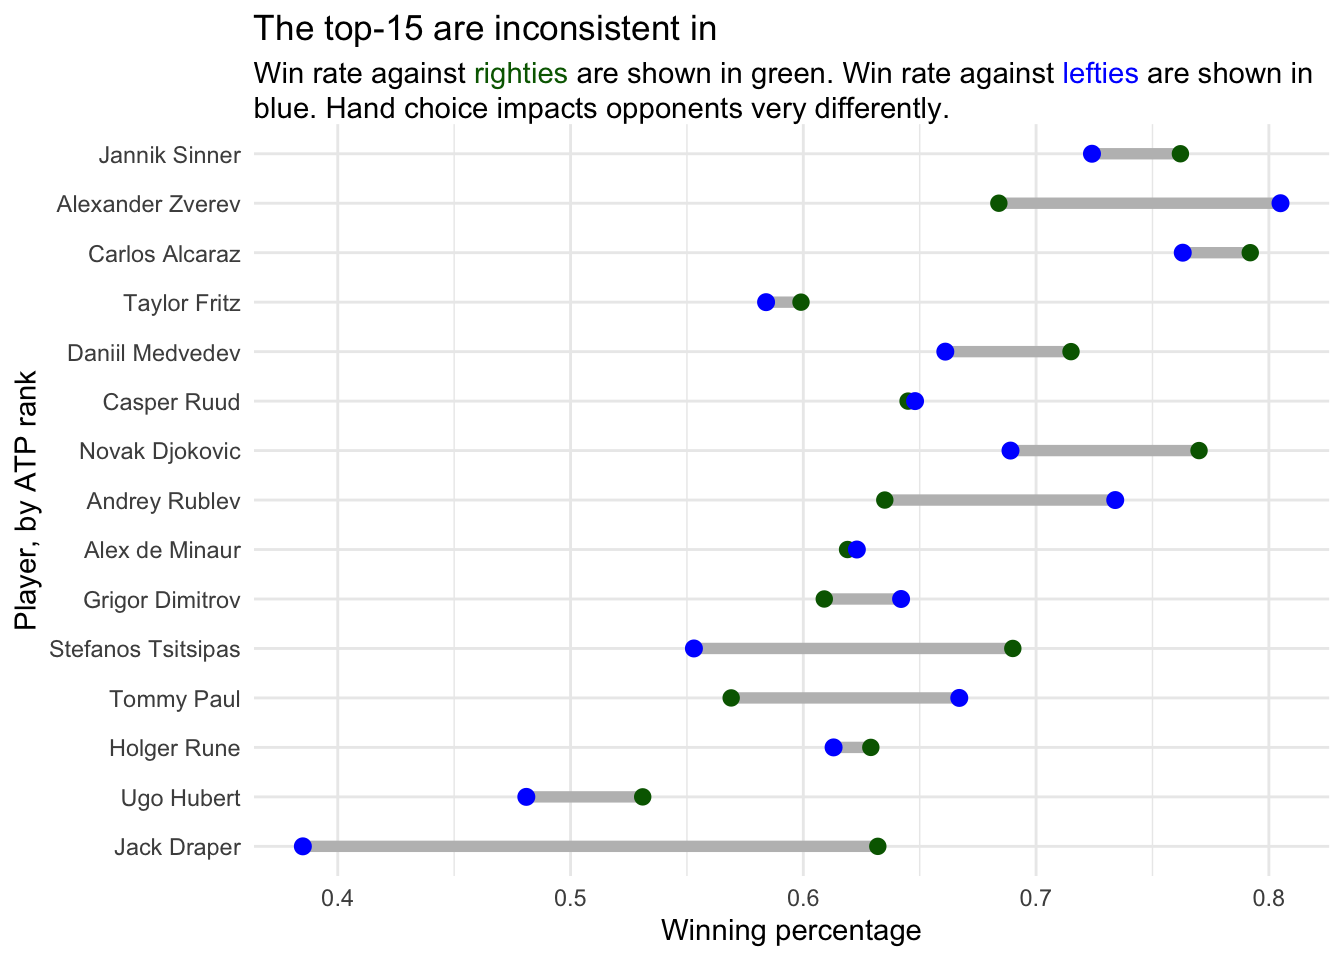
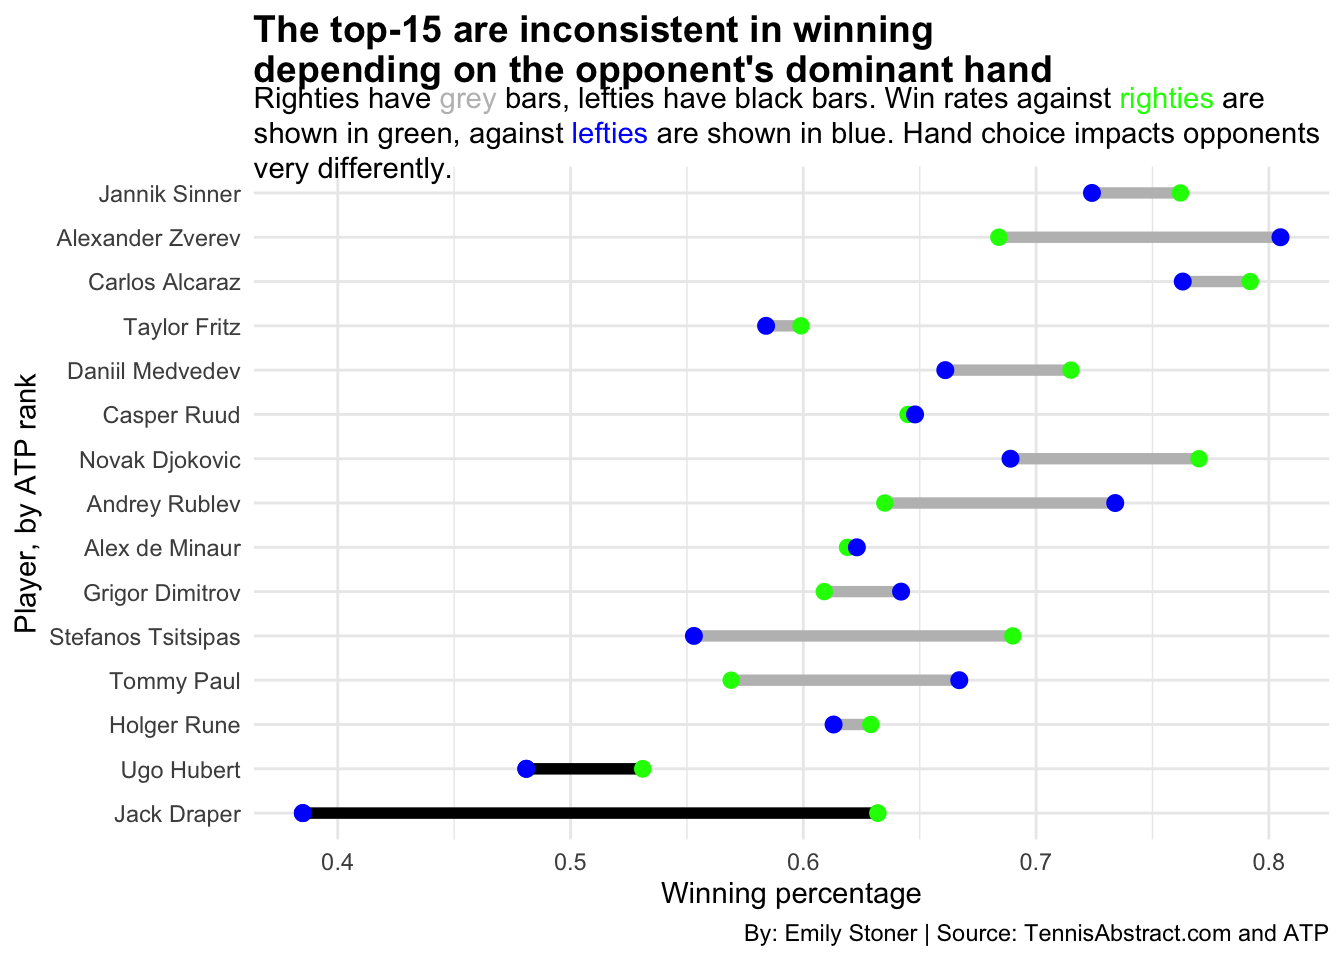
Pretty much done

Changed region(s): [[0.0, 0.0, 1.0, 0.6562], [0.0312, 0.5625, 0.9688, 1.0], [0.9062, 0.875, 0.9688, 0.9062]]

diff --git a/posts/External-Tennis-Factors-Impact-on-Success/index.html b/posts/External-Tennis-Factors-Impact-on-Success/index.html
@@ -245,10 +245,11 @@ pre > code.sourceCode > span > a:first-child::before { text-decoration: underlin
 <span id="cb3-26"><a href="#cb3-26" aria-hidden="true" tabindex="-1"></a>  <span class="fu">scale_size</span>(<span class="at">range =</span> <span class="fu">c</span>(<span class="dv">3</span>, <span class="dv">8</span>), <span class="at">name =</span> <span class="st">"Average Aces/Match"</span>) <span class="sc">+</span> <span class="fu">labs</span>(</span>
 <span id="cb3-27"><a href="#cb3-27" aria-hidden="true" tabindex="-1"></a>    <span class="at">x =</span> <span class="st">"Height (cm)"</span>, <span class="at">y =</span> <span class="st">"Serve Rating"</span>,</span>
 <span id="cb3-28"><a href="#cb3-28" aria-hidden="true" tabindex="-1"></a>    <span class="at">title =</span> <span class="st">"The ATP's best servers are tall and hit aces"</span>,</span>
-<span id="cb3-29"><a href="#cb3-29" aria-hidden="true" tabindex="-1"></a>    <span class="at">subtitle =</span> <span class="st">"The top-20 serve leaders by career show a connection between</span><span class="sc">\n</span><span class="st">height and service dominance. Active players shown in green."</span>, <span class="at">caption =</span> <span class="st">"By: Emily Stoner | Source: ATP"</span></span>
+<span id="cb3-29"><a href="#cb3-29" aria-hidden="true" tabindex="-1"></a>    <span class="at">subtitle =</span> <span class="st">"The top-20 serve leaders by career show a connection between</span><span class="sc">\n</span><span class="st">height and service dominance. Active players shown in &lt;span style = 'color:green;'&gt;green&lt;/span&gt;."</span>, <span class="at">caption =</span> <span class="st">"By: Emily Stoner | Source: ATP"</span></span>
 <span id="cb3-30"><a href="#cb3-30" aria-hidden="true" tabindex="-1"></a>  ) <span class="sc">+</span> <span class="fu">theme_minimal</span>() <span class="sc">+</span></span>
 <span id="cb3-31"><a href="#cb3-31" aria-hidden="true" tabindex="-1"></a>    <span class="fu">theme</span>(</span>
-<span id="cb3-32"><a href="#cb3-32" aria-hidden="true" tabindex="-1"></a>    <span class="at">plot.title =</span> <span class="fu">element_text</span>(<span class="at">size =</span> <span class="dv">14</span>, <span class="at">face =</span> <span class="st">"bold"</span>)) </span></code><button title="Copy to Clipboard" class="code-copy-button"><i class="bi"></i></button></pre></div>
+<span id="cb3-32"><a href="#cb3-32" aria-hidden="true" tabindex="-1"></a>      <span class="at">plot.subtitle =</span> <span class="fu">element_textbox_simple</span>(),</span>
+<span id="cb3-33"><a href="#cb3-33" aria-hidden="true" tabindex="-1"></a>    <span class="at">plot.title =</span> <span class="fu">element_text</span>(<span class="at">size =</span> <span class="dv">14</span>, <span class="at">face =</span> <span class="st">"bold"</span>)) </span></code><button title="Copy to Clipboard" class="code-copy-button"><i class="bi"></i></button></pre></div>
 </details>
 <div class="cell-output-display">
 <div>
@@ -320,17 +321,23 @@ pre > code.sourceCode > span > a:first-child::before { text-decoration: underlin
 <span id="cb7-4"><a href="#cb7-4" aria-hidden="true" tabindex="-1"></a>    <span class="fu">aes</span>(<span class="at">y=</span><span class="fu">reorder</span>(Player, <span class="sc">-</span>No), <span class="at">x=</span>vR, <span class="at">xend=</span>vL),</span>
 <span id="cb7-5"><a href="#cb7-5" aria-hidden="true" tabindex="-1"></a>    <span class="at">size =</span> <span class="dv">2</span>,</span>
 <span id="cb7-6"><a href="#cb7-6" aria-hidden="true" tabindex="-1"></a>    <span class="at">colour =</span> <span class="st">"grey"</span>,</span>
-<span id="cb7-7"><a href="#cb7-7" aria-hidden="true" tabindex="-1"></a>    <span class="at">colour_x =</span> <span class="st">"darkgreen"</span>,</span>
-<span id="cb7-8"><a href="#cb7-8" aria-hidden="true" tabindex="-1"></a>    <span class="at">colour_xend =</span> <span class="st">"blue"</span> ) <span class="sc">+</span></span>
-<span id="cb7-9"><a href="#cb7-9" aria-hidden="true" tabindex="-1"></a>  <span class="fu">labs</span>(</span>
-<span id="cb7-10"><a href="#cb7-10" aria-hidden="true" tabindex="-1"></a>    <span class="at">x=</span><span class="st">"Winning percentage"</span>,</span>
-<span id="cb7-11"><a href="#cb7-11" aria-hidden="true" tabindex="-1"></a>    <span class="at">y=</span><span class="st">"Player, by ATP rank"</span>,</span>
-<span id="cb7-12"><a href="#cb7-12" aria-hidden="true" tabindex="-1"></a>    <span class="at">title=</span><span class="st">"The top-15 are inconsistent in "</span>, </span>
-<span id="cb7-13"><a href="#cb7-13" aria-hidden="true" tabindex="-1"></a>    <span class="at">subtitle =</span> <span class="st">"Win rate against &lt;span style = 'color:darkgreen;'&gt;righties&lt;/span&gt; are shown in green. Win rate against &lt;span style = 'color:blue;'&gt;lefties&lt;/span&gt; are shown in blue. Hand choice impacts opponents very differently."</span></span>
-<span id="cb7-14"><a href="#cb7-14" aria-hidden="true" tabindex="-1"></a>  ) <span class="sc">+</span>  </span>
-<span id="cb7-15"><a href="#cb7-15" aria-hidden="true" tabindex="-1"></a>  <span class="fu">theme_minimal</span>() <span class="sc">+</span></span>
-<span id="cb7-16"><a href="#cb7-16" aria-hidden="true" tabindex="-1"></a>  <span class="fu">theme</span>(</span>
-<span id="cb7-17"><a href="#cb7-17" aria-hidden="true" tabindex="-1"></a>    <span class="at">plot.subtitle =</span> <span class="fu">element_textbox_simple</span>())</span></code><button title="Copy to Clipboard" class="code-copy-button"><i class="bi"></i></button></pre></div>
+<span id="cb7-7"><a href="#cb7-7" aria-hidden="true" tabindex="-1"></a>    <span class="at">colour_x =</span> <span class="st">"green"</span>,</span>
+<span id="cb7-8"><a href="#cb7-8" aria-hidden="true" tabindex="-1"></a>    <span class="at">colour_xend =</span> <span class="st">"blue"</span> ) <span class="sc">+</span> <span class="fu">geom_dumbbell</span>(</span>
+<span id="cb7-9"><a href="#cb7-9" aria-hidden="true" tabindex="-1"></a>    <span class="at">data=</span>Lefties, </span>
+<span id="cb7-10"><a href="#cb7-10" aria-hidden="true" tabindex="-1"></a>    <span class="fu">aes</span>(<span class="at">y=</span><span class="fu">reorder</span>(Player, <span class="sc">-</span>No), <span class="at">x=</span>vR, <span class="at">xend=</span>vL),</span>
+<span id="cb7-11"><a href="#cb7-11" aria-hidden="true" tabindex="-1"></a>    <span class="at">size =</span> <span class="dv">2</span>,</span>
+<span id="cb7-12"><a href="#cb7-12" aria-hidden="true" tabindex="-1"></a>    <span class="at">colour =</span> <span class="st">"black"</span>,</span>
+<span id="cb7-13"><a href="#cb7-13" aria-hidden="true" tabindex="-1"></a>    <span class="at">colour_x =</span> <span class="st">"green"</span>,</span>
+<span id="cb7-14"><a href="#cb7-14" aria-hidden="true" tabindex="-1"></a>    <span class="at">colour_xend =</span> <span class="st">"blue"</span> ) <span class="sc">+</span></span>
+<span id="cb7-15"><a href="#cb7-15" aria-hidden="true" tabindex="-1"></a>  <span class="fu">labs</span>(</span>
+<span id="cb7-16"><a href="#cb7-16" aria-hidden="true" tabindex="-1"></a>    <span class="at">x=</span><span class="st">"Winning percentage"</span>,</span>
+<span id="cb7-17"><a href="#cb7-17" aria-hidden="true" tabindex="-1"></a>    <span class="at">y=</span><span class="st">"Player, by ATP rank"</span>,</span>
+<span id="cb7-18"><a href="#cb7-18" aria-hidden="true" tabindex="-1"></a>    <span class="at">title=</span><span class="st">"The top-15 are inconsistent in winning</span><span class="sc">\n</span><span class="st">depending on the opponent's dominant hand"</span>, </span>
+<span id="cb7-19"><a href="#cb7-19" aria-hidden="true" tabindex="-1"></a>    <span class="at">subtitle =</span> <span class="st">"Righties have &lt;span style = 'color:grey;'&gt;grey&lt;/span&gt; bars, lefties have black bars. Win rates against &lt;span style = 'color:green;'&gt;righties&lt;/span&gt; are shown in green, against &lt;span style = 'color:blue;'&gt;lefties&lt;/span&gt; are shown in blue. Hand choice impacts opponents very differently."</span>, <span class="at">caption =</span> <span class="st">"By: Emily Stoner | Source: TennisAbstract.com and ATP"</span>) <span class="sc">+</span>  </span>
+<span id="cb7-20"><a href="#cb7-20" aria-hidden="true" tabindex="-1"></a>  <span class="fu">theme_minimal</span>() <span class="sc">+</span></span>
+<span id="cb7-21"><a href="#cb7-21" aria-hidden="true" tabindex="-1"></a>  <span class="fu">theme</span>(</span>
+<span id="cb7-22"><a href="#cb7-22" aria-hidden="true" tabindex="-1"></a>    <span class="at">plot.subtitle =</span> <span class="fu">element_textbox_simple</span>(),</span>
+<span id="cb7-23"><a href="#cb7-23" aria-hidden="true" tabindex="-1"></a>    <span class="at">plot.title =</span> <span class="fu">element_text</span>(<span class="at">size =</span> <span class="dv">14</span>, <span class="at">face =</span> <span class="st">"bold"</span>))</span></code><button title="Copy to Clipboard" class="code-copy-button"><i class="bi"></i></button></pre></div>
 </details>
 <div class="cell-output-display">
 <div>
@@ -340,6 +347,35 @@ pre > code.sourceCode > span > a:first-child::before { text-decoration: underlin
 </div>
 </div>
 </div>
+<p>Again, it’s always more complicated than the stats show. Opponents are more or less skilled, have different strengths, weaknesses, etc. But this chart shows that the top-15 is really all over the place when it comes to success against opponents based on their dominant hands. Nine of the 15 perform better against righties, including the two lefties. Casper Ruud is nearly unaffected by his opponent’s dominant hand. Fritz and Rune probably don’t have a preference either. But Zverev has an impressive 80.5% win rate against lefties, while Draper has terrible odds against other lefties. Overall, maybe an opponents dominant hand has an impact on aopponent, but clearly it varies player to player. It could be differences in training, mindset, or shot selection that lead to this, but whatever it is, this chart really surprises me.</p>
+<p>One last chart: one- versus two-handed backhand winners. This player/coaching preference may not make much of a difference at lower levels, but the players that opt for one-handed backhands in the ATP are few.</p>
+<div class="cell">
+<details class="code-fold">
+<summary>Code</summary>
+<div class="sourceCode cell-code" id="cb8"><pre class="sourceCode r code-with-copy"><code class="sourceCode r"><span id="cb8-1"><a href="#cb8-1" aria-hidden="true" tabindex="-1"></a><span class="fu">ggplot</span>() <span class="sc">+</span> </span>
+<span id="cb8-2"><a href="#cb8-2" aria-hidden="true" tabindex="-1"></a>  <span class="fu">geom_bar</span>(</span>
+<span id="cb8-3"><a href="#cb8-3" aria-hidden="true" tabindex="-1"></a>    <span class="at">data =</span> Grip, </span>
+<span id="cb8-4"><a href="#cb8-4" aria-hidden="true" tabindex="-1"></a>    <span class="fu">aes</span>(<span class="at">x =</span> <span class="fu">reorder</span>(Player, <span class="sc">-</span>No), <span class="at">weight =</span> BHWPct), <span class="at">fill =</span> <span class="st">"grey"</span>) <span class="sc">+</span> <span class="fu">geom_bar</span>(</span>
+<span id="cb8-5"><a href="#cb8-5" aria-hidden="true" tabindex="-1"></a>    <span class="at">data =</span> OneHandB, </span>
+<span id="cb8-6"><a href="#cb8-6" aria-hidden="true" tabindex="-1"></a>    <span class="fu">aes</span>(<span class="at">x =</span> <span class="fu">reorder</span>(Player, <span class="sc">-</span>No), <span class="at">weight =</span> BHWPct), <span class="at">fill =</span> <span class="st">"blue"</span>) <span class="sc">+</span> <span class="fu">coord_flip</span>() <span class="sc">+</span> <span class="fu">labs</span>(</span>
+<span id="cb8-7"><a href="#cb8-7" aria-hidden="true" tabindex="-1"></a>    <span class="at">x=</span><span class="st">"Player, by ATP rank"</span>,</span>
+<span id="cb8-8"><a href="#cb8-8" aria-hidden="true" tabindex="-1"></a>    <span class="at">y=</span><span class="st">"Backhand winner percentage"</span>,</span>
+<span id="cb8-9"><a href="#cb8-9" aria-hidden="true" tabindex="-1"></a>    <span class="at">title=</span><span class="st">"One-handed backhanders can't match two-handers' winners"</span>, </span>
+<span id="cb8-10"><a href="#cb8-10" aria-hidden="true" tabindex="-1"></a>    <span class="at">subtitle =</span> <span class="st">"Backhand winners are rare, but they're even more rare for the few one-handed backhanders in the ATP top-15."</span>, <span class="at">caption =</span> <span class="st">"By: Emily Stoner | Source: TennisAbstract.com and ATP"</span>) <span class="sc">+</span>  </span>
+<span id="cb8-11"><a href="#cb8-11" aria-hidden="true" tabindex="-1"></a>  <span class="fu">theme_minimal</span>() <span class="sc">+</span></span>
+<span id="cb8-12"><a href="#cb8-12" aria-hidden="true" tabindex="-1"></a>  <span class="fu">theme</span>(</span>
+<span id="cb8-13"><a href="#cb8-13" aria-hidden="true" tabindex="-1"></a>    <span class="at">plot.subtitle =</span> <span class="fu">element_textbox_simple</span>(),</span>
+<span id="cb8-14"><a href="#cb8-14" aria-hidden="true" tabindex="-1"></a>    <span class="at">plot.title =</span> <span class="fu">element_text</span>(<span class="at">size =</span> <span class="dv">14</span>, <span class="at">face =</span> <span class="st">"bold"</span>))</span></code><button title="Copy to Clipboard" class="code-copy-button"><i class="bi"></i></button></pre></div>
+</details>
+<div class="cell-output-display">
+<div>
+<figure class="figure">
+<p><img src="index_files/figure-html/unnamed-chunk-8-1.png" class="img-fluid figure-img" width="672"></p>
+</figure>
+</div>
+</div>
+</div>
+<p>It’s hard to hit a winner with your backhand, but our two one-hand backhand guys are kind of at the back of the pack. Clearly this grip choice doesn’t hinder their game in a monumental way; these two guys are top-15 in a massive, competitive sport, but it is interesting to once again see how the things we don’t have maybe as much control or focus on can still impact performance patterns.</p>
 <p>All data is reflective of standings at the conclusion of the 2024 ATP season.</p>
 
 

diff --git a/index.html b/index.html
@@ -205,7 +205,7 @@ window.Quarto = {
 
 <div class="quarto-listing quarto-listing-container-default" id="listing-listing">
 <div class="list quarto-listing-default">
-<div class="quarto-post image-right" data-index="0" data-categories="atp,spmc350" data-listing-date-sort="1733637600000" data-listing-file-modified-sort="1733810201222" data-listing-date-modified-sort="NaN" data-listing-reading-time-sort="8" data-listing-word-count-sort="1477">
+<div class="quarto-post image-right" data-index="0" data-categories="atp,spmc350" data-listing-date-sort="1733637600000" data-listing-file-modified-sort="1733812634092" data-listing-date-modified-sort="NaN" data-listing-reading-time-sort="10" data-listing-word-count-sort="1929">
 <div class="thumbnail">
 <p><a href="./posts/External-Tennis-Factors-Impact-on-Success/index.html" class="no-external"></a></p><a href="./posts/External-Tennis-Factors-Impact-on-Success/index.html" class="no-external">
 <p class="card-img-top"><img src="posts/External-Tennis-Factors-Impact-on-Success/index_files/figure-html/unnamed-chunk-3-1.png"  class="thumbnail-image card-img"/></p>
